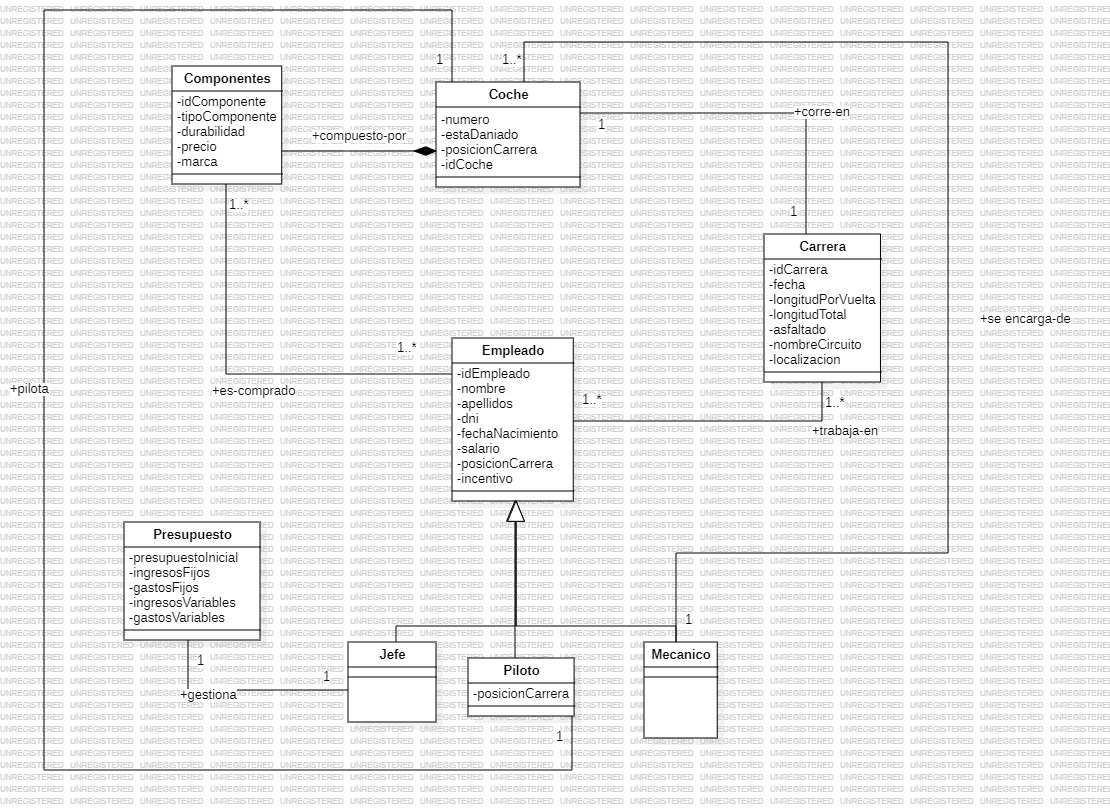
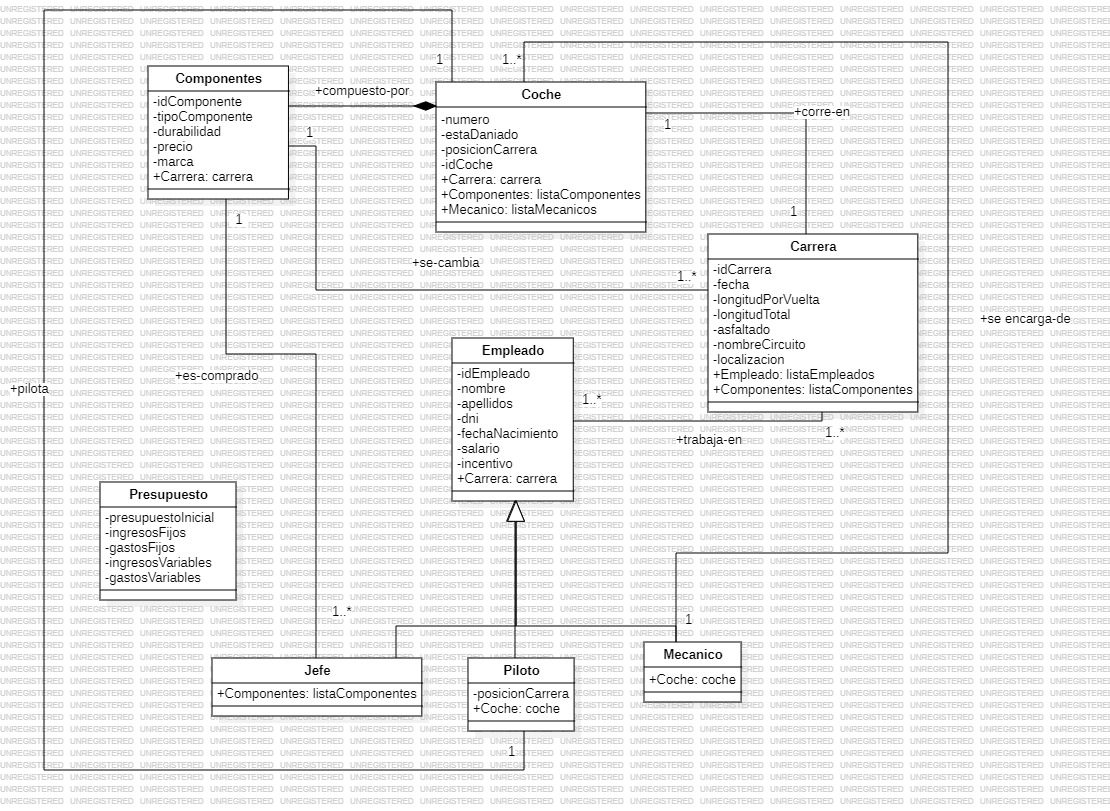
Mas modificaciones en las POJO

diff --git a/RecreativoF1ManuelGomez/src/main/java/com/salesianostriana/dam/recreativof1manuelgomez/model/Carrera.java b/RecreativoF1ManuelGomez/src/main/java/com/salesianostriana/dam/recreativof1manuelgomez/model/Carrera.java
@@ -1,6 +1,7 @@
 package com.salesianostriana.dam.recreativof1manuelgomez.model;
 
 import java.time.LocalDate;
+import java.util.List;
 
 import org.springframework.format.annotation.DateTimeFormat;
 
@@ -29,4 +30,7 @@ public class Carrera {
 	private boolean asfaltado;
 	private String nombreCircuito;
 	private String localizacion;
+
+	private List<Empleado> listaEmpleados;
+	private List<Componentes> listaComponentes;
 }

diff --git a/RecreativoF1ManuelGomez/src/main/java/com/salesianostriana/dam/recreativof1manuelgomez/model/JefeEquipo.java b/RecreativoF1ManuelGomez/src/main/java/com/salesianostriana/dam/recreativof1manuelgomez/model/JefeEquipo.java
@@ -1,10 +1,17 @@
 package com.salesianostriana.dam.recreativof1manuelgomez.model;
 
+import java.util.List;
+
 import jakarta.persistence.Entity;
+import lombok.AllArgsConstructor;
+import lombok.NoArgsConstructor;
 import lombok.experimental.SuperBuilder;
 
 @Entity
 @SuperBuilder
+@NoArgsConstructor
+@AllArgsConstructor
 public class JefeEquipo extends Empleado {
 
+	private List<Componentes> listaComponentes;
 }
